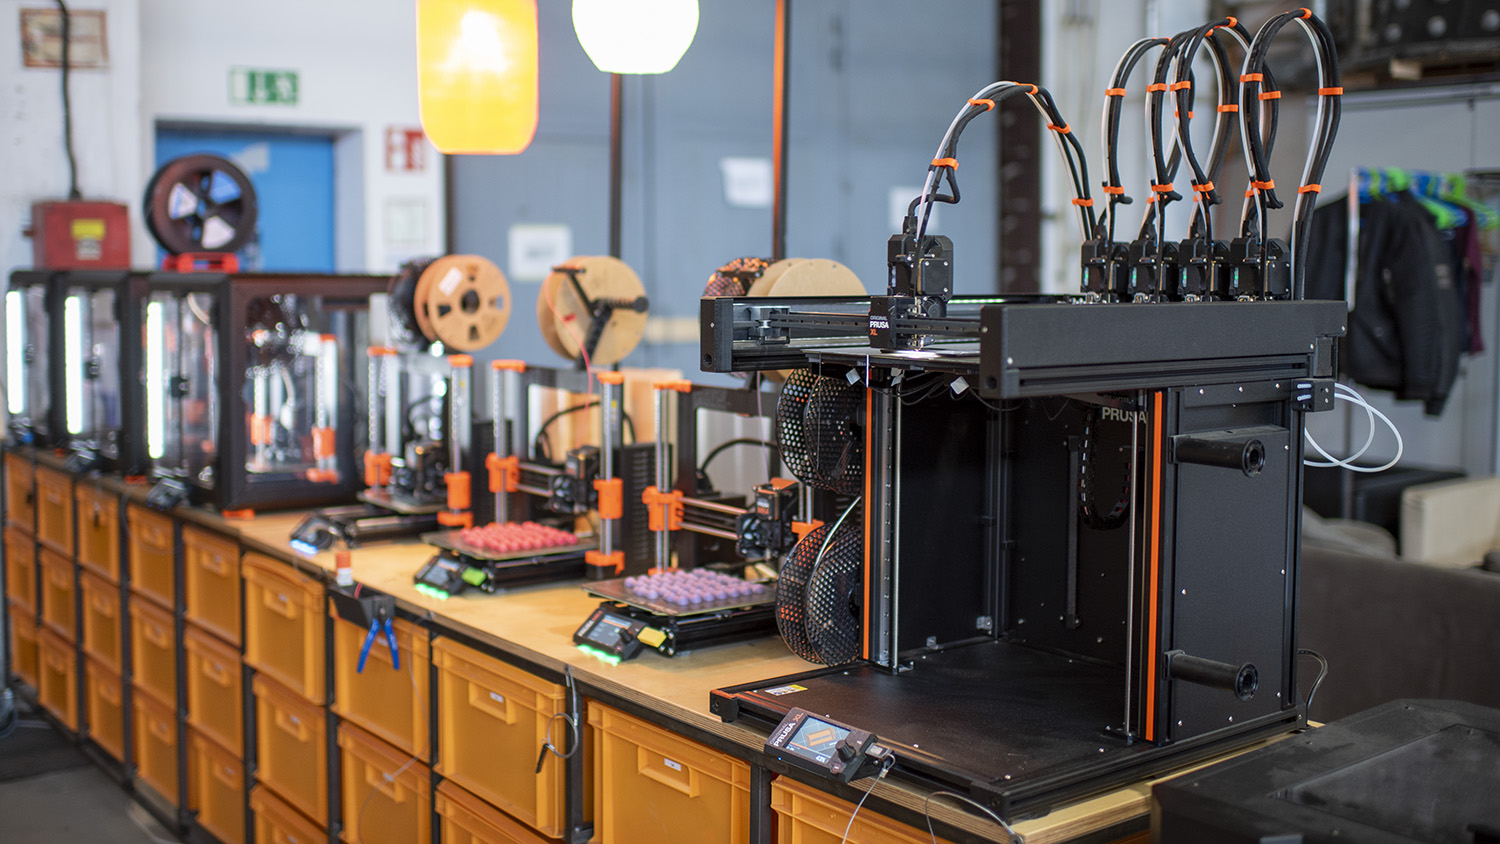
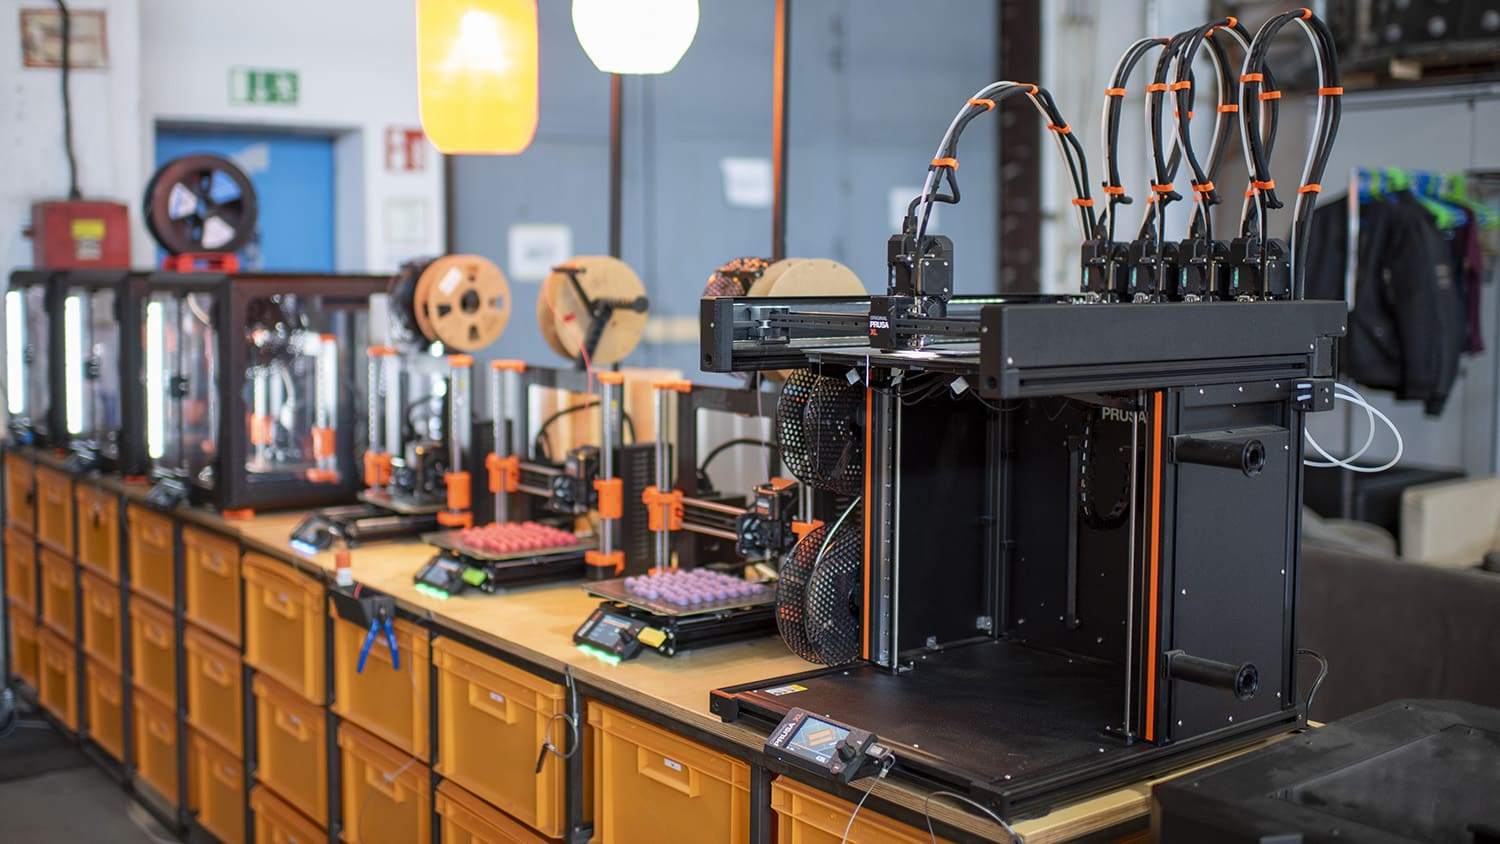
Se mejoró el texto en los 'alt' y se comprimieron las imagenes

diff --git a/pages/impresoras.html b/pages/impresoras.html
@@ -21,7 +21,7 @@
         <header>
             <div class="titulo">
                 <div class="contenedor-logo">
-                    <a href="../index.html"><img src="../media/images/logo.png" alt="Logo de la empresa"></a>
+                    <a href="../index.html"><img src="../media/images/logo.png" alt="Logo de la empresa 'Impresiones 3D'"></a>
                 </div>
                 <p class="nombreLogo animate__animated animate__bounceInRight">Impresiones 3D</p>
                 <div class="navbar navegacion-boton-hamburguesa">
@@ -60,7 +60,7 @@
             <h1 class="subtitulo animate__animated animate__fadeInDown">Nuestras Impresoras a la venta!</h1>
             <div class="impresoras">
                 <article class="impresora animate__animated animate__backInLeft">
-                    <img src="../media/images/cr-5proH.avif" alt="Impresora CR-5 PRO H">
+                    <img src="../media/images/cr-5proH.avif" alt="Imagen de la Impresora CR-5 PRO H">
                     <div class="textoImpresora">
                         <p class="nombreImpresora">Creality CR-5 Pro H</p>
                         <p class="precioImpresora">$1.300.000</p>
@@ -70,7 +70,7 @@
                     </div>
                 </article>
                 <article class="impresora animate__animated animate__backInRight">
-                    <img src="../media/images/bambulabA1.avif" alt="Impresora Bambulab A1">
+                    <img src="../media/images/bambulabA1.avif" alt="Imagen de la Impresora Bambulab A1">
                     <div class="textoImpresora">
                         <p class="nombreImpresora">Bambu Lab A1</p>
                         <p class="precioImpresora">$905.000</p>
@@ -81,7 +81,7 @@
                     </div>
                 </article>
                 <article loading="lazy" class="impresora animate__animated animate__backInLeft">
-                    <img src="../media/images/ender7.avif" alt="Impresora Ender 7">
+                    <img src="../media/images/ender7.avif" alt="Imagen de la Impresora Ender 7">
                     <div class="textoImpresora">
                         <p class="nombreImpresora">Creality Ender-7</p>
                         <p class="precioImpresora">$799.000</p>
@@ -91,7 +91,7 @@
                     </div>
                 </article>
                 <article loading="lazy" class="impresora animate__animated animate__backInRight">
-                    <img src="../media/images/ender3s1.avif" alt="Impresora Ender 3 S1">
+                    <img src="../media/images/ender3s1.avif" alt="Imagen de la Impresora Ender 3 S1">
                     <div class="textoImpresora">
                         <p class="nombreImpresora">Ender 3 S1</p>
                         <p class="precioImpresora">$495.900</p>
@@ -110,16 +110,16 @@
             <div class="redes">
                 <p>Seguinos en nuestras redes!</p>
                 <div class="red">
-                    <a href="https://www.facebook.com"><img src="../media/images/facebook.png" alt="Facebook"></a>
+                    <a href="https://www.facebook.com"><img src="../media/images/facebook.png" alt="Imagen de logo Facebook"></a>
                 </div>
                 <div class="red">
-                    <a href="https://www.instagram.com"><img src="../media/images/instagram.png" alt="Instagram"></a>
+                    <a href="https://www.instagram.com"><img src="../media/images/instagram.png" alt="Imagen de logo Instagram"></a>
                 </div>
                 <div class="red">
-                    <a href="https://www.x.com"><img src="../media/images/x.png" alt="Twitter o X"></a>
+                    <a href="https://www.x.com"><img src="../media/images/x.png" alt="Imagen de logo Twitter o X"></a>
                 </div>
                 <div class="red">
-                    <a href="https://www.whatsapp.com"><img src="../media/images/whatsapp.png" alt="Whatsapp"></a>
+                    <a href="https://www.whatsapp.com"><img src="../media/images/whatsapp.png" alt="Imagen de logo Whatsapp"></a>
                 </div>
             </div>
         </footer>

diff --git a/pages/contacto.html b/pages/contacto.html
@@ -22,7 +22,7 @@
         <header>
             <div class="titulo">
                 <div class="contenedor-logo">
-                    <a href="../index.html"><img src="../media/images/logo.png" alt="Logo de la empresa"></a>
+                    <a href="../index.html"><img src="../media/images/logo.png" alt="Logo de la empresa 'Impresiones 3D'"></a>
                 </div>
                 <p class="nombreLogo animate__animated animate__bounceInRight">Impresiones 3D</p>
                 <div class="navbar navegacion-boton-hamburguesa">
@@ -65,18 +65,18 @@
                     <div class="redesImagenes">
                         <div class="red">
                             <a href="https://www.facebook.com"><img src="../media/images/facebook.png"
-                                    alt="Facebook"></a>
+                                    alt="Imagen de logo Facebook"></a>
                         </div>
                         <div class="red">
                             <a href="https://www.instagram.com"><img src="../media/images/instagram.png"
-                                    alt="Instagram"></a>
+                                    alt="Imagen de logo Instagram"></a>
                         </div>
                         <div class="red">
-                            <a href="https://www.x.com"><img src="../media/images/x.png" alt="Twitter o X"></a>
+                            <a href="https://www.x.com"><img src="../media/images/x.png" alt="Imagen de logo Twitter o X"></a>
                         </div>
                         <div class="red">
                             <a href="https://www.whatsapp.com"><img src="../media/images/whatsapp.png"
-                                    alt="Whatsapp"></a>
+                                    alt="Imagen de logo Whatsapp"></a>
                         </div>
                     </div>
                     <p>Donde estamos siempre activos con la comunidad.</p>
@@ -102,16 +102,16 @@
             <div class="redes">
                 <p>Seguinos en nuestras redes!</p>
                 <div class="red">
-                    <a href="https://www.facebook.com"><img src="../media/images/facebook.png" alt="Facebook"></a>
+                    <a href="https://www.facebook.com"><img src="../media/images/facebook.png" alt="Imagen de logo Facebook"></a>
                 </div>
                 <div class="red">
-                    <a href="https://www.instagram.com"><img src="../media/images/instagram.png" alt="Instagram"></a>
+                    <a href="https://www.instagram.com"><img src="../media/images/instagram.png" alt="Imagen de logo Instagram"></a>
                 </div>
                 <div class="red">
-                    <a href="https://www.x.com"><img src="../media/images/x.png" alt="Twitter o X"></a>
+                    <a href="https://www.x.com"><img src="../media/images/x.png" alt="Imagen de logo Twitter o X"></a>
                 </div>
                 <div class="red">
-                    <a href="https://www.whatsapp.com"><img src="../media/images/whatsapp.png" alt="Whatsapp"></a>
+                    <a href="https://www.whatsapp.com"><img src="../media/images/whatsapp.png" alt="Imagen de logo Whatsapp"></a>
                 </div>
             </div>
         </footer>

diff --git a/pages/capacitaciones.html b/pages/capacitaciones.html
@@ -22,7 +22,7 @@
         <header>
             <div class="titulo">
                 <div class="contenedor-logo">
-                    <a href="../index.html"><img src="../media/images/logo.png" alt="Logo de la empresa"></a>
+                    <a href="../index.html"><img src="../media/images/logo.png" alt="Logo de la empresa 'Impresiones 3D'"></a>
                 </div>
                 <p class="nombreLogo animate__animated animate__bounceInRight">Impresiones 3D</p>
                 <div class="navbar navegacion-boton-hamburguesa">
@@ -61,7 +61,7 @@
             <h1 class="subtitulo animate__animated animate__fadeInDown">Capacitate con nosotros!</h1>
             <div class="capacitaciones">
                 <article class="capacitacion">
-                    <img src="../media/images/reparacion.jpg" alt="Imagen capacitacion de Reparacion de Impresoras">
+                    <img src="../media/images/reparacion.jpg" alt="Imagen ejemplo de capacitacion de Reparacion de Impresoras">
                     <div class="capacitacionDetalle">
                         <h2 class="capacitacionTitulo">Reparación de Impresoras 3D</h2>
                         <p class="capacitacionDescripcion">Aprendé a diagnosticar, reparar y mantener impresoras 3D FDM
@@ -79,7 +79,7 @@
                     </div>
                 </article>
                 <article class="capacitacion">
-                    <img src="../media/images/diseño.jpg" alt="Imagen de capacitaciond e Diseño y Modelado 3D">
+                    <img src="../media/images/diseño.jpg" alt="Imagen ejemplo de capacitaciond e Diseño y Modelado 3D">
                     <div class="capacitacionDetalle">
                         <h2 class="capacitacionTitulo">Diseño y Modelado 3D</h2>
                         <p class="capacitacionDescripcion">Este curso te introduce al mundo del diseño y modelado 3D
@@ -103,16 +103,16 @@
             <div class="redes">
                 <p>Seguinos en nuestras redes!</p>
                 <div class="red">
-                    <a href="https://www.facebook.com"><img src="../media/images/facebook.png" alt="Facebook"></a>
+                    <a href="https://www.facebook.com"><img src="../media/images/facebook.png" alt="Imagen de logo Facebook"></a>
                 </div>
                 <div class="red">
-                    <a href="https://www.instagram.com"><img src="../media/images/instagram.png" alt="Instagram"></a>
+                    <a href="https://www.instagram.com"><img src="../media/images/instagram.png" alt="Imagen de logo Instagram"></a>
                 </div>
                 <div class="red">
-                    <a href="https://www.x.com"><img src="../media/images/x.png" alt="Twitter o X"></a>
+                    <a href="https://www.x.com"><img src="../media/images/x.png" alt="Imagen de logo Twitter o X"></a>
                 </div>
                 <div class="red">
-                    <a href="https://www.whatsapp.com"><img src="../media/images/whatsapp.png" alt="Whatsapp"></a>
+                    <a href="https://www.whatsapp.com"><img src="../media/images/whatsapp.png" alt="Imagen de logo Whatsapp"></a>
                 </div>
             </div>
         </footer>

diff --git a/pages/nosotros.html b/pages/nosotros.html
@@ -22,7 +22,7 @@
         <header>
             <div class="titulo">
                 <div class="contenedor-logo">
-                    <a href="../index.html"><img src="../media/images/logo.png" alt="Logo de la empresa"></a>
+                    <a href="../index.html"><img src="../media/images/logo.png" alt="Logo de la empresa 'Impresiones 3D'"></a>
                 </div>
                 <p class="nombreLogo animate__animated animate__bounceInRight">Impresiones 3D</p>
                 <div class="navbar navegacion-boton-hamburguesa">
@@ -68,23 +68,23 @@
                 Además, fomentamos una comunidad de aprendizaje, innovación y colaboración, donde compartir
                 conocimientos y experiencias es parte fundamental del proceso. Estamos en constante evolución,
                 aprendiendo, mejorando y apostando por el desarrollo local a través de la tecnología.</p>
-            <img class="nosotrosImagen" src="../media/images/equipo.jpg" alt="Imagen del equipo">
+            <img class="nosotrosImagen" src="../media/images/equipo.jpg" alt="Imagen de nuestros integrantes">
         </main>
         <footer>
             <p>Página sin fines de lucro - Alexis Cerullo - 2025</p>
             <div class="redes">
                 <p>Seguinos en nuestras redes!</p>
                 <div class="red">
-                    <a href="https://www.facebook.com"><img src="../media/images/facebook.png" alt="Facebook"></a>
+                    <a href="https://www.facebook.com"><img src="../media/images/facebook.png" alt="Imagen de logo Facebook"></a>
                 </div>
                 <div class="red">
-                    <a href="https://www.instagram.com"><img src="../media/images/instagram.png" alt="Instagram"></a>
+                    <a href="https://www.instagram.com"><img src="../media/images/instagram.png" alt="Imagen de logo Instagram"></a>
                 </div>
                 <div class="red">
-                    <a href="https://www.x.com"><img src="../media/images/x.png" alt="Twitter o X"></a>
+                    <a href="https://www.x.com"><img src="../media/images/x.png" alt="Imagen de logo Twitter o X"></a>
                 </div>
                 <div class="red">
-                    <a href="https://www.whatsapp.com"><img src="../media/images/whatsapp.png" alt="Whatsapp"></a>
+                    <a href="https://www.whatsapp.com"><img src="../media/images/whatsapp.png" alt="Imagen de logo Whatsapp"></a>
                 </div>
             </div>
         </footer>

diff --git a/index.html b/index.html
@@ -21,7 +21,7 @@
         <header>
             <div class="titulo">
                 <div class="contenedor-logo">
-                    <a href="#"><img src="./media/images/logo.png" alt="Logo de la empresa"></a>
+                    <a href="#"><img src="./media/images/logo.png" alt="Logo de la empresa 'Impresiones 3D'"></a>
                 </div>
                 <p class="nombreLogo animate__animated animate__bounceInRight">Impresiones 3D</p>
                 <div class="navbar navegacion-boton-hamburguesa">
@@ -116,16 +116,16 @@
             <div class="redes">
                 <p>Seguinos en nuestras redes!</p>
                 <div class="red">
-                    <a href="https://www.facebook.com"><img src="./media/images/facebook.png" alt="Facebook"></a>
+                    <a href="https://www.facebook.com"><img src="./media/images/facebook.png" alt="Imagen de logo Facebook"></a>
                 </div>
                 <div class="red">
-                    <a href="https://www.instagram.com"><img src="./media/images/instagram.png" alt="Instagram"></a>
+                    <a href="https://www.instagram.com"><img src="./media/images/instagram.png" alt="Imagen de logo Instagram"></a>
                 </div>
                 <div class="red">
-                    <a href="https://www.x.com"><img src="./media/images/x.png" alt="Twitter o X"></a>
+                    <a href="https://www.x.com"><img src="./media/images/x.png" alt="Imagen de logo Twitter o X"></a>
                 </div>
                 <div class="red">
-                    <a href="https://www.whatsapp.com"><img src="./media/images/whatsapp.png" alt="Whatsapp"></a>
+                    <a href="https://www.whatsapp.com"><img src="./media/images/whatsapp.png" alt="Imagen de logo Whatsapp"></a>
                 </div>
             </div>
         </footer>
